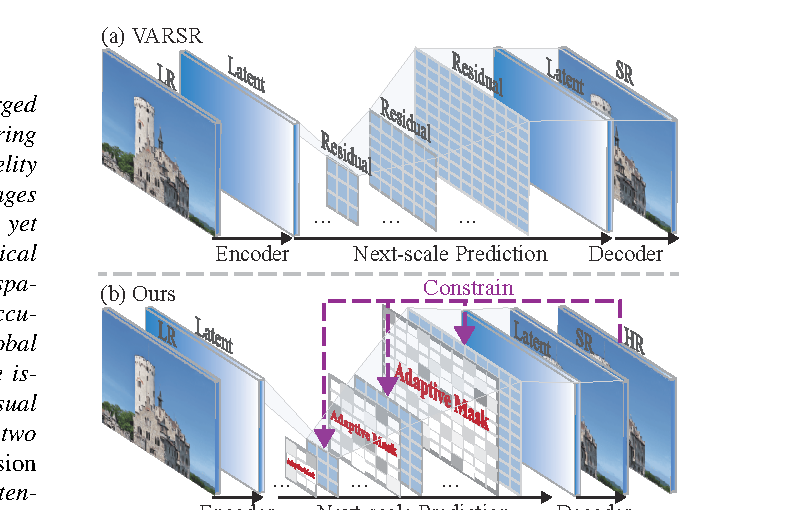
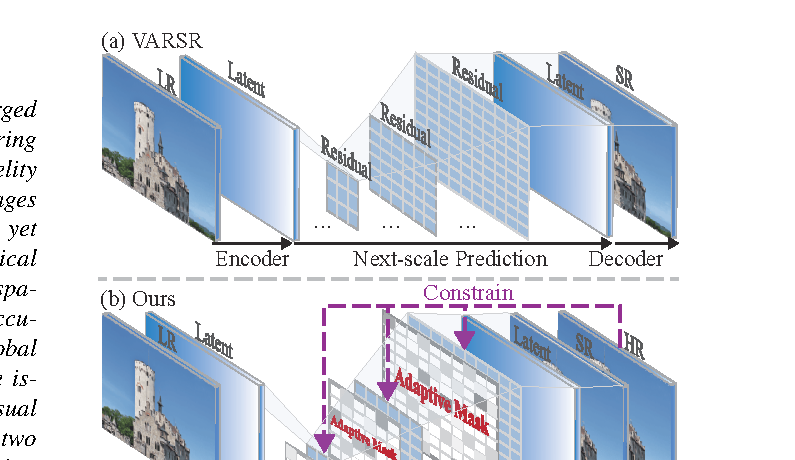
Refine publication layout with original paper figures

diff --git a/assets/css/main.scss b/assets/css/main.scss
@@ -41,33 +41,58 @@
 @import "print";
 
 .paper-box {
-    display: flex;
-    flex-direction: column;
-    gap: 1.4rem;
+    display: grid;
+    grid-template-columns: minmax(260px, 320px) minmax(0, 1fr);
+    gap: 1.35rem 1.8rem;
+    align-items: stretch;
     border-bottom: 1px #efefef solid;
-    padding: 2.2em 0;
+    padding: 1.8rem 0;
+
+    .paper-box-media {
+        display: flex;
+        align-items: stretch;
+    }
 
     .paper-box-image {
         position: relative;
         width: 100%;
-        border-radius: 1.1rem;
+        min-height: 190px;
+        max-height: 220px;
+        border-radius: 1rem;
         overflow: hidden;
-        background: linear-gradient(135deg, #f5f9ff 0%, #e9f0fb 100%);
-        box-shadow: 0 16px 38px rgba(24, 53, 103, 0.12);
+        background: #f4f7fb;
+        box-shadow: 0 12px 28px rgba(24, 53, 103, 0.10);
 
         img {
             display: block;
             width: 100%;
-            max-width: 100%;
-            max-height: 420px;
-            margin: 0;
-            object-fit: cover;
-            object-position: center top;
+            height: 100%;
+            object-fit: contain;
+            object-position: center;
+            background: #ffffff;
         }
     }
 
     .paper-box-text {
+        display: flex;
+        flex-direction: column;
+        justify-content: center;
+        min-height: 190px;
         max-width: 100%;
+    }
+
+    @include breakpoint(max-width $medium) {
+        grid-template-columns: 1fr;
+        gap: 1rem;
+
+        .paper-box-image {
+            min-height: 180px;
+            max-height: 220px;
+        }
+
+        .paper-box-text {
+            min-height: 0;
+        }
     }
 }
 
@@ -83,14 +108,14 @@ h1:before, .anchor:before {
 
 .badge {
     position: absolute;
-    top: 1rem;
-    left: 1rem;
-    padding: 0.45rem 0.95rem;
+    top: 0.85rem;
+    left: 0.85rem;
+    padding: 0.4rem 0.85rem;
     border-radius: 999px;
     color: white;
     background: rgba(0, 54, 159, 0.92);
-    box-shadow: 0 8px 18px rgba(0, 54, 159, 0.24);
-    font-size: 0.82em;
+    box-shadow: 0 8px 18px rgba(0, 54, 159, 0.22);
+    font-size: 0.78em;
     font-weight: 700;
     letter-spacing: 0.02em;
 }

diff --git a/_pages/about.md b/_pages/about.md
@@ -26,31 +26,35 @@ I am currently working toward the Ph.D. degree with the Laboratory of Intelligen
 # 📝 Publications
 
 <div class='paper-box'>
-<div class='paper-box-image'>
-  <img src='/images/alignvar-figure.png' alt='Core figure of AlignVAR: comparison between VARSR and AlignVAR for image super-resolution'>
-  <div class="badge">CVPR 2026 Findings</div>
-</div>
-<div class='paper-box-text' markdown="1">
+  <div class='paper-box-media'>
+    <div class='paper-box-image'>
+      <img src='/images/alignvar-figure.png' alt='Original figure from AlignVAR paper'>
+      <div class="badge">CVPR 2026 Findings</div>
+    </div>
+  </div>
+  <div class='paper-box-text' markdown="1">
 
 [AlignVAR: Towards Globally Consistent Visual Autoregression for Image Super-Resolution](https://arxiv.org/abs/2603.00589)
 
 **Cencen Liu**, Dongyang Zhang, Wen Yin, Jielei Wang, Tianyu Li, Ji Guo, Wenbo Jiang, Guoqing Wang, Guoming Lu
 
-</div>
+  </div>
 </div>
 
 <div class='paper-box'>
-<div class='paper-box-image'>
-  <img src='/images/srmambat-figure.svg' alt='Core figure of SRMamba-T: hybrid Mamba-Transformer pipeline for single image super-resolution'>
-  <div class="badge">Neurocomputing</div>
-</div>
-<div class='paper-box-text' markdown="1">
+  <div class='paper-box-media'>
+    <div class='paper-box-image'>
+      <img src='/images/srmambat-figure.png' alt='Original figure from SRMamba-T paper'>
+      <div class="badge">Neurocomputing</div>
+    </div>
+  </div>
+  <div class='paper-box-text' markdown="1">
 
 [SRMamba-T: Exploring the Hybrid Mamba-Transformer Network for Single Image Super-Resolution](https://www.sciencedirect.com/science/article/abs/pii/S0925231225001602)
 
 **Cencen Liu**, Dongyang Zhang, Guoming Lu, Wen Yin, Jielei Wang, Guangchun Luo
 
-</div>
+  </div>
 </div>
 
 # 📖 Education
